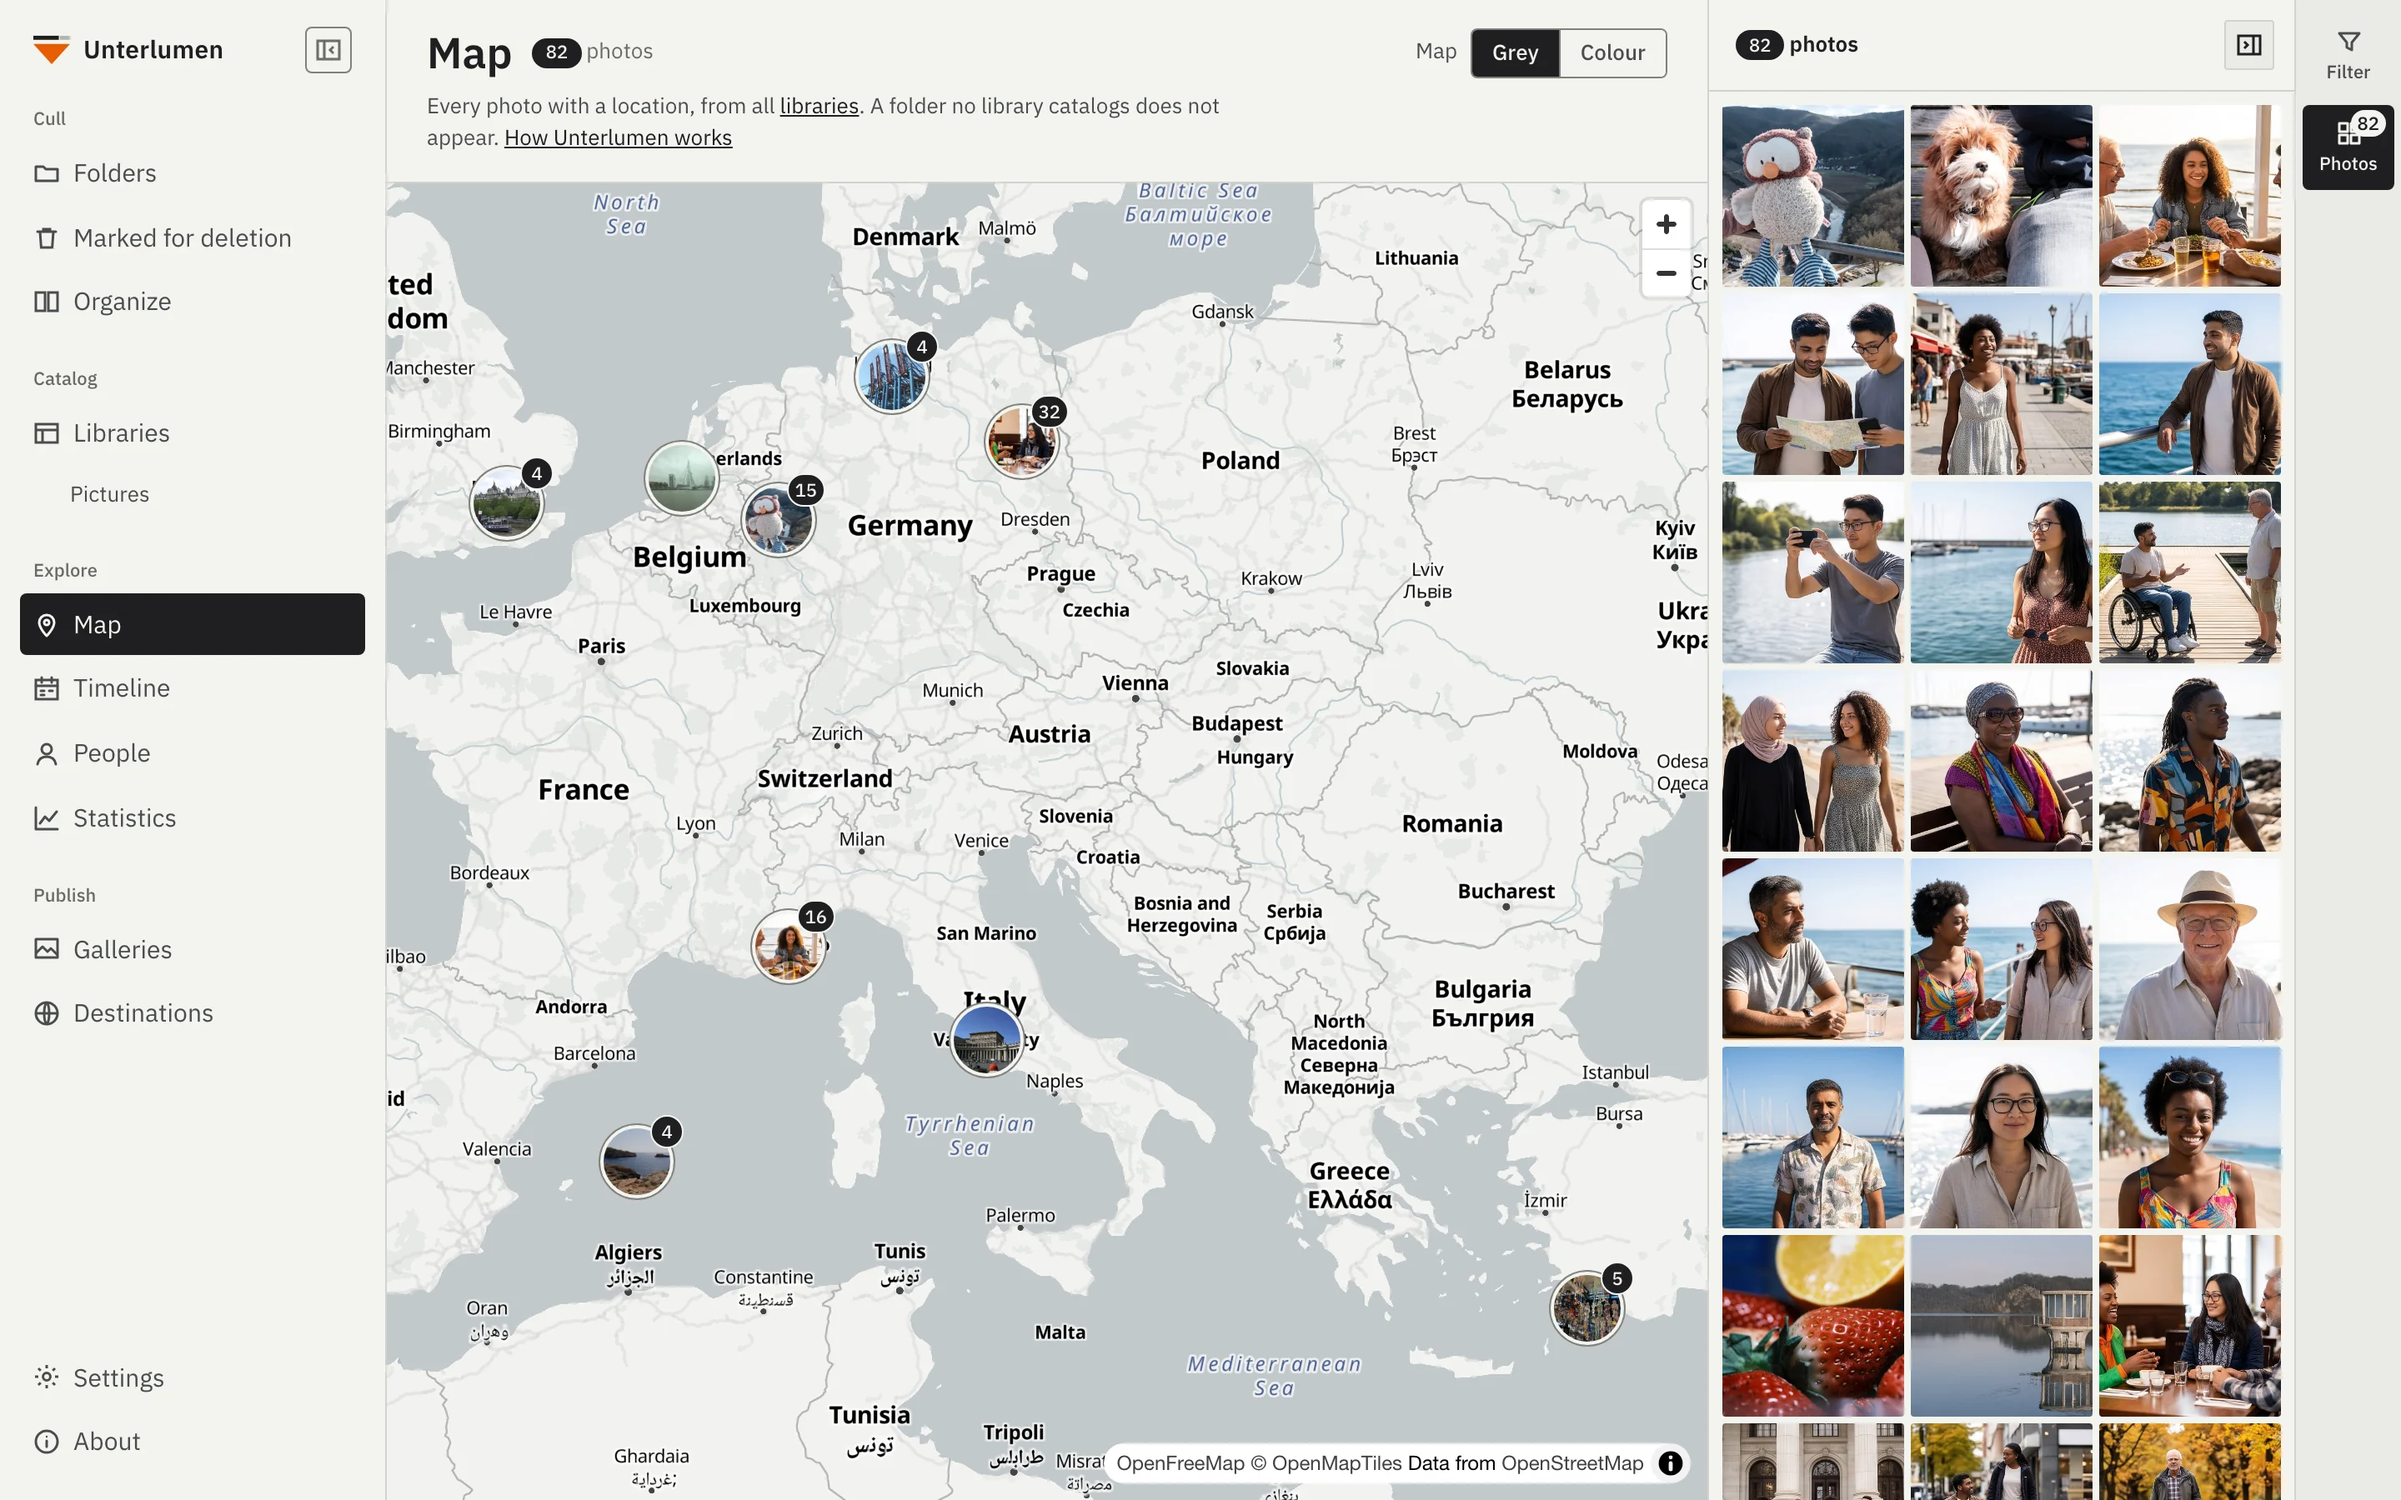
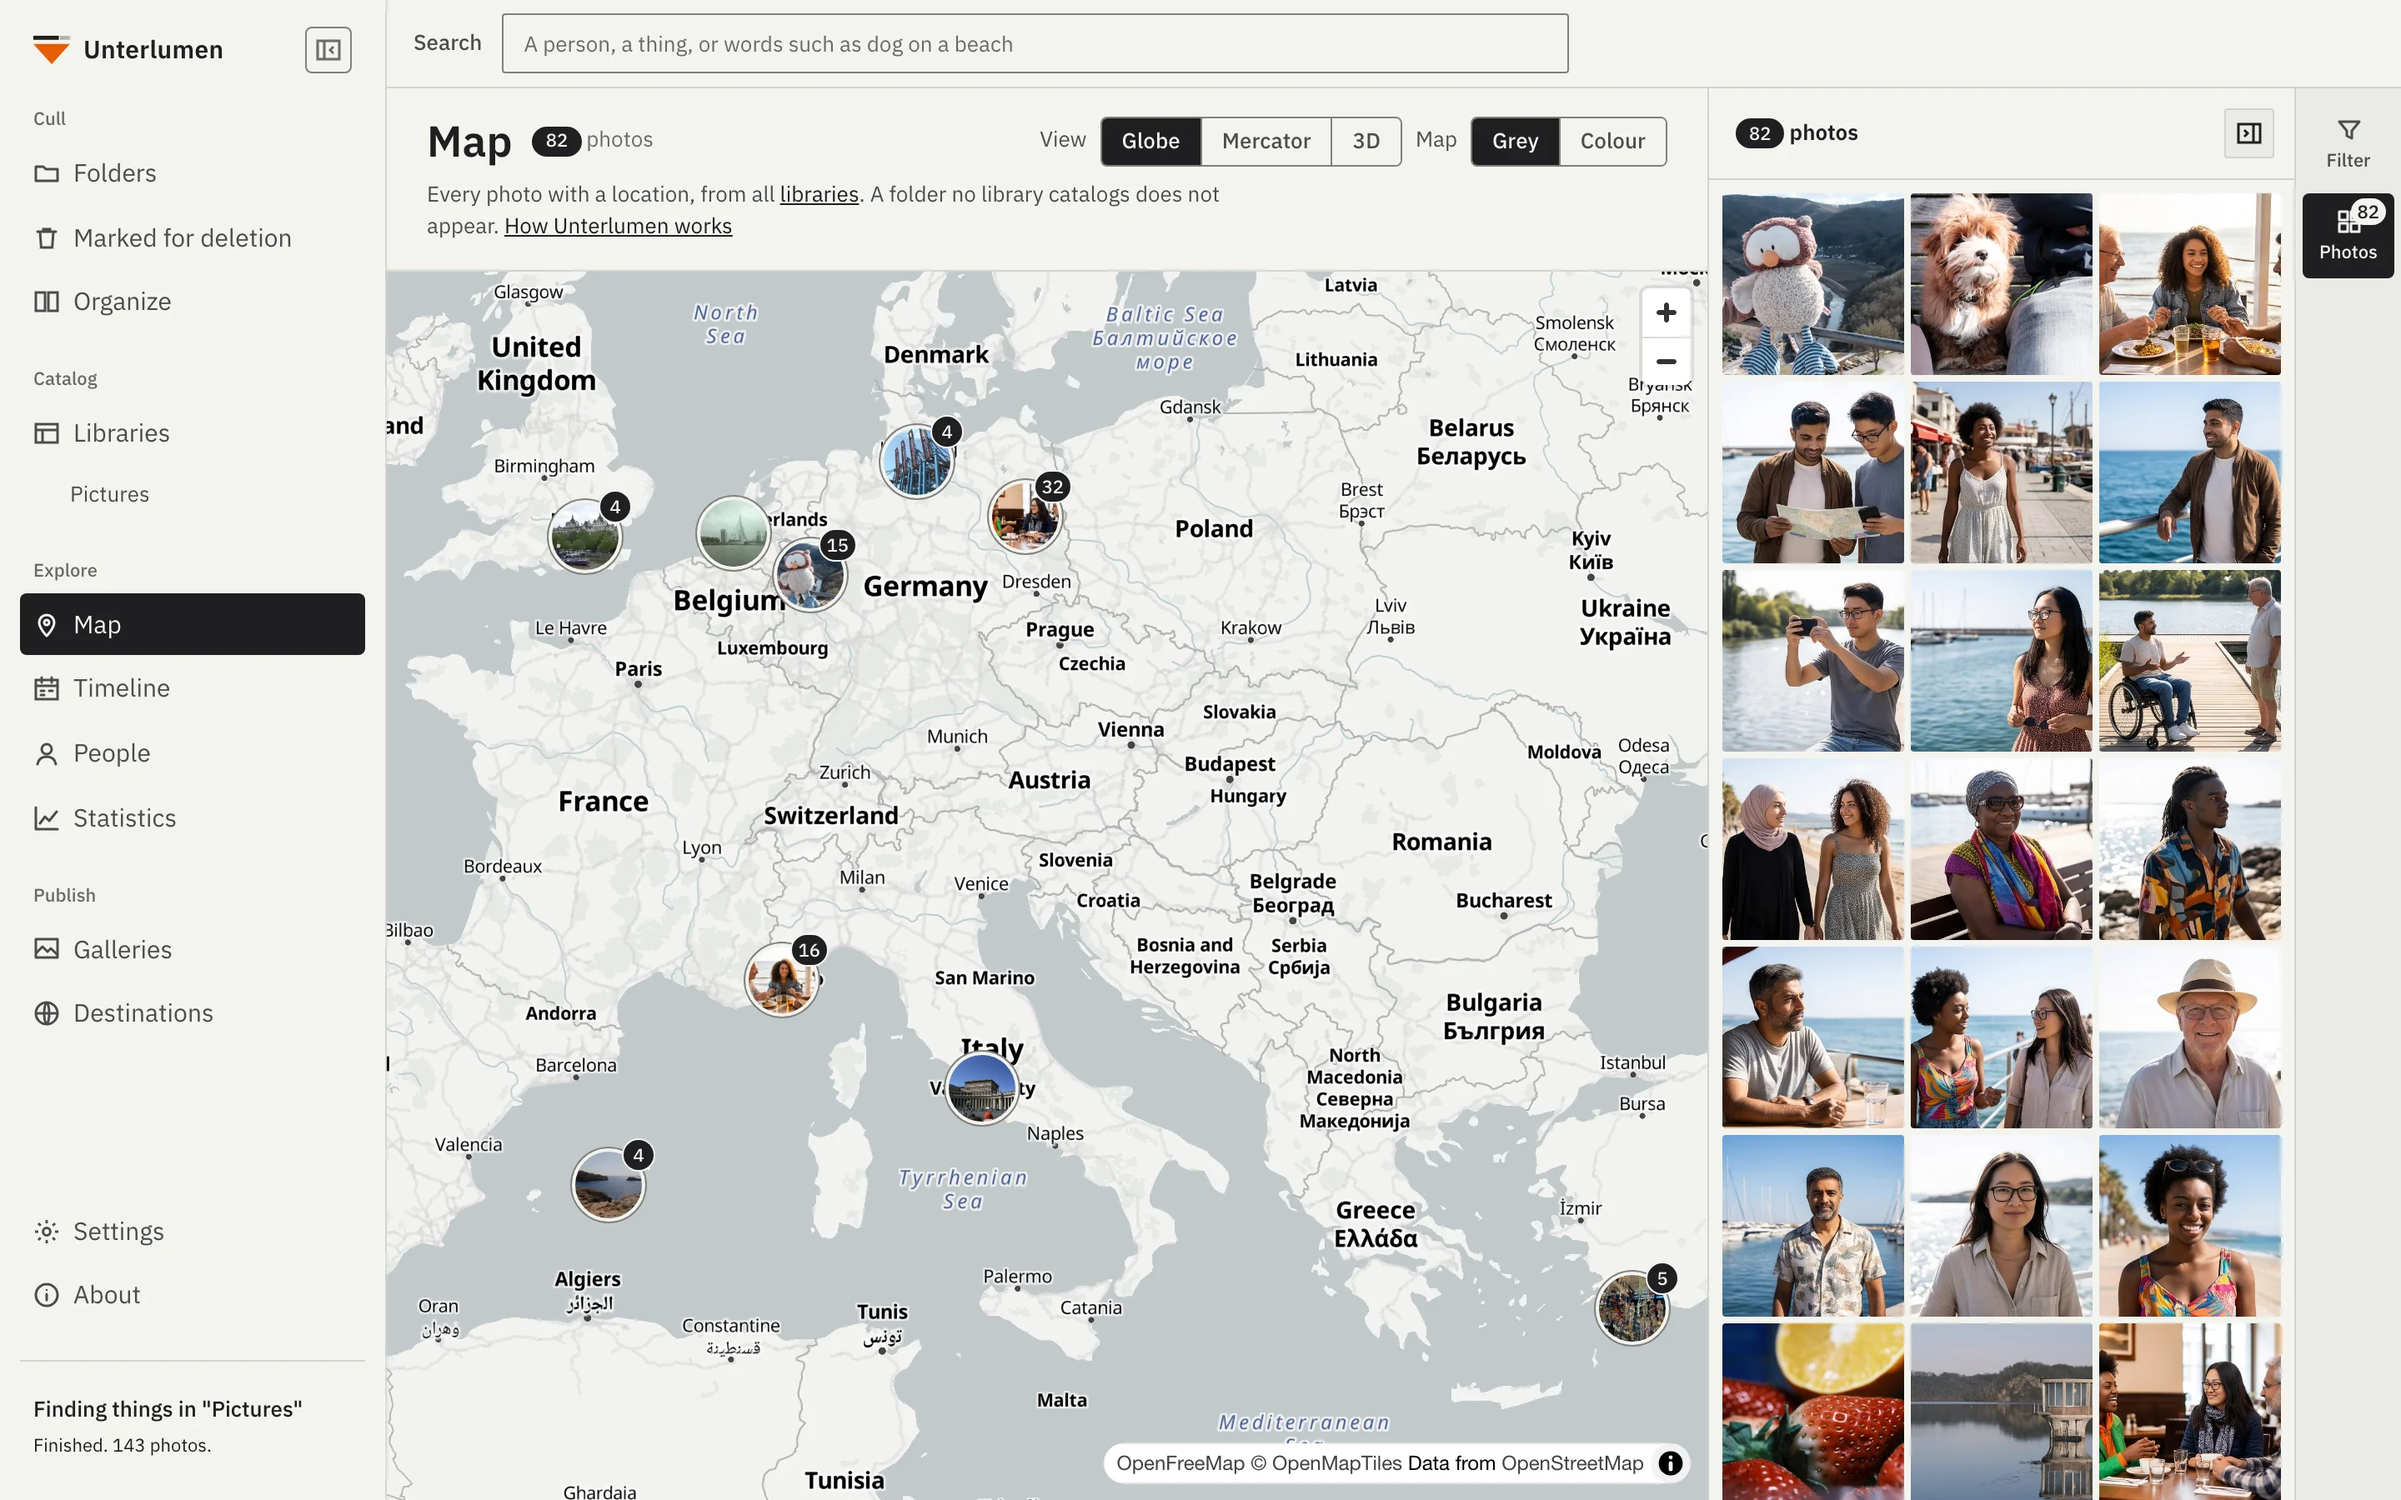
docs: map pictures with Globe/Mercator/3D; supercut with People, things and the 3D map

diff --git a/.claude/skills/unterlumen-supercut/SKILL.md b/.claude/skills/unterlumen-supercut/SKILL.md
@@ -88,12 +88,12 @@ The page head of `/products/unterlumen` (EN and DE) shows a web copy:
 V=../unterlumen/e2e/video/out/unterlumen-supercut.mp4
 ffmpeg -v error -y -i $V -vf scale=720:720:flags=lanczos -c:v libx264 -preset slow -crf 28 \
   -pix_fmt yuv420p -movflags +faststart -an src/products/unterlumen/supercut.mp4
-ffmpeg -v error -y -i $V -vf "select='eq(n\,510)',scale=720:720" -frames:v 1 -vsync vfr /tmp/poster.png \
+ffmpeg -v error -y -i $V -vf "select='eq(n\,630)',scale=720:720" -frames:v 1 -vsync vfr /tmp/poster.png \
   && cwebp -quiet -q 80 /tmp/poster.png -o src/products/unterlumen/supercut-poster.webp
 ```
 
-The poster is bar 9 (the Colour space); pick another frame if the scenes
-moved. Update the caption's length ("in 28 seconds", both languages) if it
+The poster is bar 11 (the Colour space, frame 630); pick another frame if the scenes
+moved. Update the caption's length ("in 32 seconds", both languages) if it
 changed, then build and deploy as that repo's deploy command says. The site's
 CSP needs `media-src 'self'` (in both Caddyfiles; it is there since
 2026-10-02).

diff --git a/README.md b/README.md
@@ -124,7 +124,7 @@ The interface is in English or German. By default it follows the browser's langu
 
 #### Map
 
-Every photo with a location on one map. Photos close together form a group showing the newest one; zooming in splits the groups. The Photos column lists what is in view, the filter in the head narrows the map, and Style switches between grey and colour tiles.
+Every photo with a location on one map. Photos close together form a group showing the newest one; zooming in splits the groups. The Photos column lists what is in view, the filter in the head narrows the map. View shows the earth as a globe, flat (Mercator) or tilted in 3D with the buildings standing; Map switches between grey and colour tiles.
 
 ![Map with the photos column](doc/screenshots/map.webp)
 
